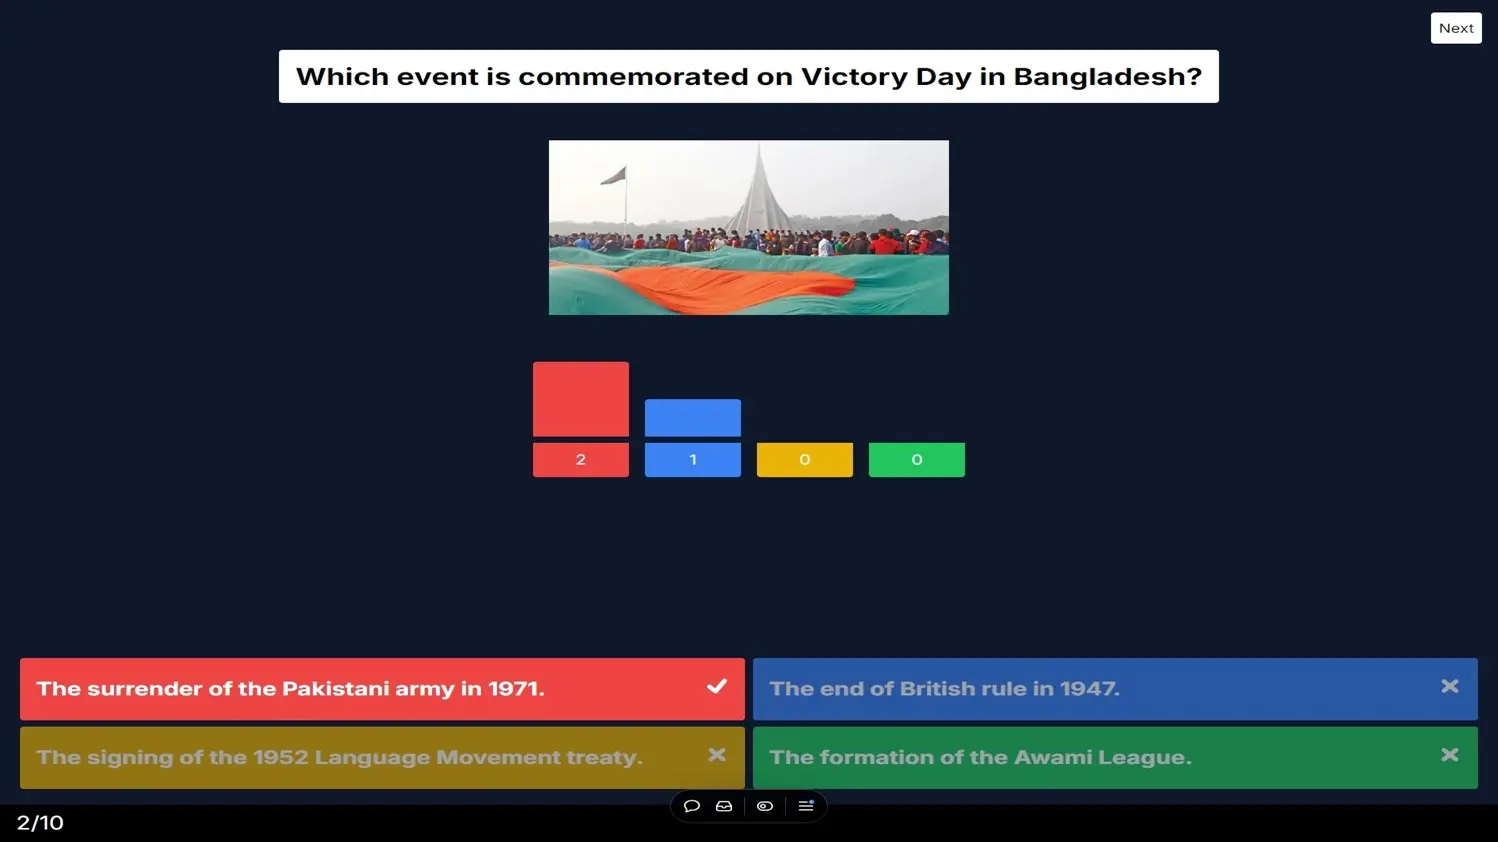
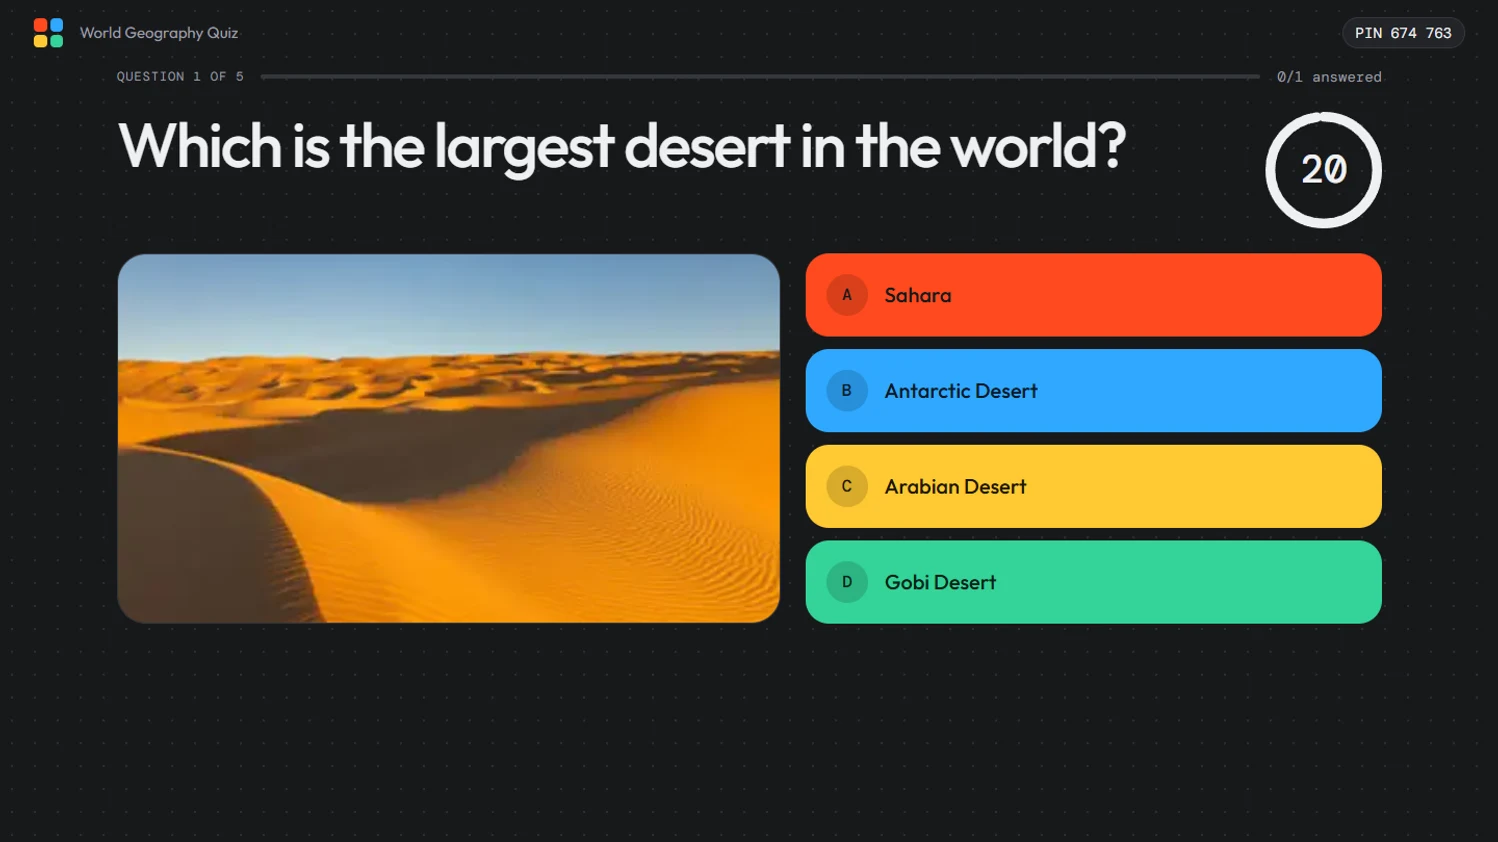
content: refresh Kahoot Portal screenshot and description for the redesign

diff --git a/constants/index.ts b/constants/index.ts
@@ -495,7 +495,7 @@ export const PROJECTS = [
   {
     title: "Kahoot Portal",
     description:
-      "This project is a multiplayer quiz app. Quiz host can create quizzes and players can join the quiz using a link. It handles players in realtime and show answer accuracy and final score after question timer and quiz completion respectively.",
+      "A live multiplayer quiz platform. A host opens a lobby on a big screen and players join from their phones with a six-digit code or QR code. Questions, answer reveals and standings sync in realtime; answers are scored server-side by speed, and the answer key stays hidden in the database until each reveal. Includes a quiz editor, game history and a monthly leaderboard.",
     image: "/projects/kahoot-portal.webp",
     demo: "https://demo2.fusan.me",
     source: "https://github.com/FuSan21/kahoot-portal",
@@ -503,10 +503,6 @@ export const PROJECTS = [
       {
         name: "Next.js",
         icon: "next.png",
-      },
-      {
-        name: "Node.js",
-        icon: "node.png",
       },
       {
         name: "React",
@@ -521,20 +517,16 @@ export const PROJECTS = [
         icon: "tailwind.png",
       },
       {
-        name: "PostgreSQL",
-        icon: "postgresql.png",
+        name: "Framer Motion",
+        icon: "framer.png",
       },
       {
         name: "Supabase",
         icon: "supabase.png",
       },
       {
-        name: "HTML",
-        icon: "html.png",
-      },
-      {
-        name: "CSS",
-        icon: "css.png",
+        name: "PostgreSQL",
+        icon: "postgresql.png",
       },
       {
         name: "Vercel",
